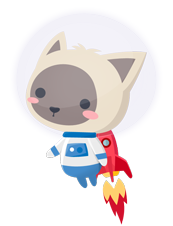
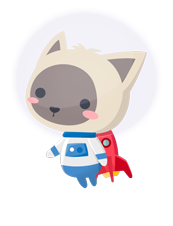
Update flames

Changed region(s): [[0.578, 0.7743, 0.7514, 0.9912]]

diff --git a/SpaceUp/Nodes/EngineFlameNode.swift b/SpaceUp/Nodes/EngineFlameNode.swift
@@ -17,6 +17,7 @@ class EngineFlameNode: SKSpriteNode {
   private let textureAtlas = SKTextureAtlas(named: TextureAtlasFileName.Character)
   
   // MARK: - Vars
+  private lazy var engineEmitterNode = SKEmitterNode(fileNamed: EffectFileName.Propel)
   private lazy var flameStartAnimateAction: SKAction = {
     return SKAction.animateWithTextures([
       self.textureAtlas.textureNamed(TextureFileName.EngineFlame + "1"),
@@ -48,19 +49,24 @@ class EngineFlameNode: SKSpriteNode {
   
   // MARK: - Animate
   func animate() {
-    let action = SKAction.sequence([
-      flameStartAnimateAction,
-      flamePersistAnimateAction
-    ])
-
     hidden = false
 
-    runAction(action, withKey: KeyForAction.engineAnimateAction)
+    // Action
+    runAction(SKAction.sequence([
+      flameStartAnimateAction,
+      flamePersistAnimateAction
+    ]), withKey: KeyForAction.engineAnimateAction)
+    
+    // Emitter
+    engineEmitterNode.position = CGPoint(x: 0, y: 0)
+    engineEmitterNode.resetSimulation()
+    engineEmitterNode.addToParent(self)
   }
   
   func stopAnimate() {
     hidden = true
 
     removeActionForKey(KeyForAction.engineAnimateAction)
+    engineEmitterNode.removeFromParent()
   }
 }

diff --git a/SpaceUp/Nodes/PlayerNode.swift b/SpaceUp/Nodes/PlayerNode.swift
@@ -19,7 +19,6 @@ class PlayerNode: SKSpriteNode {
   private let textureAtlas = SKTextureAtlas(named: TextureAtlasFileName.Character)
 
   // MARK: - Vars
-  private lazy var engineEmitterNode = SKEmitterNode(fileNamed: EffectFileName.Propel)
   private lazy var engineFlame = EngineFlameNode()
   private var shieldNode: ShieldNode?
   private(set) var isAlive: Bool = true
@@ -213,18 +212,11 @@ class PlayerNode: SKSpriteNode {
       runAction(moveUpAnimateAction)
       
       engineFlame.animate()
-      /*
-      engineEmitterNode?.position = CGPoint(x: 27, y: -5)
-      engineEmitterNode?.zPosition = 19
-      engineEmitterNode?.resetSimulation()
-      engineEmitterNode?.addToParent(self)
-      */
       
     case .Dropping:
       removeActionForKey(KeyForAction.movementSoundAction)
       runAction(stopMoveUpAnimateAction)
       
-      // engineEmitterNode?.removeFromParent()
       engineFlame.stopAnimate()
       
     case .Standing:
